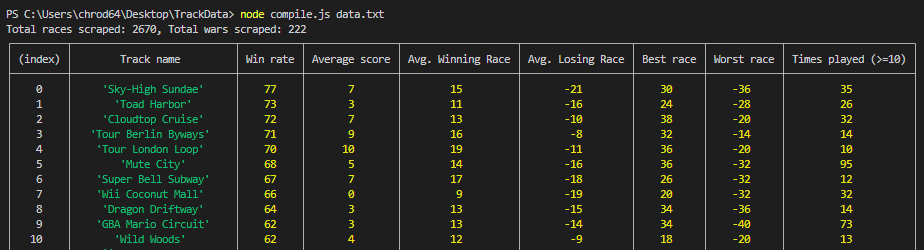
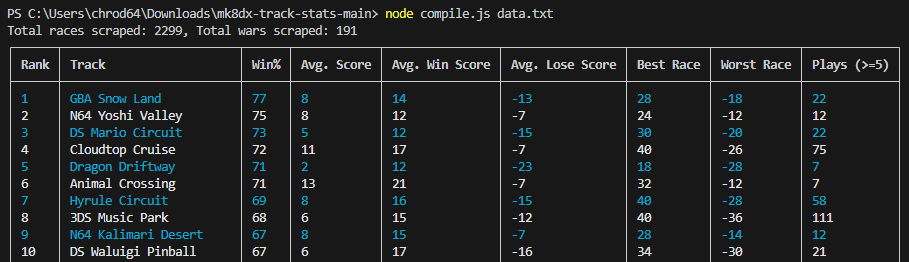
Updates
- Keep up to date with toad bot changes
- Made stats easier to read with alternating colors

diff --git a/compile.js b/compile.js
@@ -1,11 +1,12 @@
 const readLine = require("readline");
 const fs = require("fs");
-const stream = require('stream');
+const stream = require("stream");
+const { Table } = require("console-table-printer");
 
 // DiscordChatExporter search criteria: "from:Toad#7861 track"
 
-const lines = [];
 const timesPlayedLimit = 5;
+const columnAlignment = "left";
 
 // Read collected toad bot data
 function readLines({ input }) {
@@ -22,6 +23,8 @@ function readLines({ input }) {
 const input = fs.createReadStream(process.argv[2]);
 
 (async () => {
+    const lines = [];
+
     // Read the data
     for await (const line of readLines({ input })) {
         lines.push(line);
@@ -41,6 +44,7 @@ const input = fs.createReadStream(process.argv[2]);
         if (!trackData[trackName]) {
             // Create object if it does not exist
             trackData[trackName] = {
+                //spots: [], // 2D array
                 scores: [],
                 timesPlayed: 0,
                 avgScore: 0,
@@ -52,6 +56,9 @@ const input = fs.createReadStream(process.argv[2]);
             }
         }
         trackData[trackName].scores.push(difference);
+        /*if (difference > 0) {
+            trackData[trackName].spots.push(lines[i - 7].match(/\d+/g));
+        }*/
         ++totalRaces;
     }
 
@@ -79,27 +86,61 @@ const input = fs.createReadStream(process.argv[2]);
         trackObj.bestRace = isFinite(trackObj.bestRace) ? trackObj.bestRace : 0;
         trackObj.worstRace = isFinite(trackObj.worstRace) ? trackObj.worstRace : 0;
 
+        /*const spotSums = {};
+        for (const raceSpots of trackObj.spots) {
+            for (const spot of raceSpots) {
+                if (!spotSums[spot]) {
+                    spotSums[spot] = 0
+                }
+                ++spotSums[spot];
+            }
+        }
+        for (const spot of Object.keys(spotSums)) {
+            spotSums[spot] /= wRaces.length;
+        }
+        console.log(spotSums);
+        console.log(trackObj.spots);*/
+
         trackObjs.push({ name: trackName, data: trackObj });
     }
     trackObjs.sort((t1, t2) => t2.data.winRate - t1.data.winRate);
 
+    // Format columns
+    const plays = `Plays (>=${timesPlayedLimit})`;
+    const table = new Table({
+        columns: [
+            { name: "Rank", alignment: columnAlignment },
+            { name: "Track", alignment: columnAlignment },
+            { name: "Win%", alignment: columnAlignment },
+            { name: "Avg. Score", alignment: columnAlignment },
+            { name: "Avg. Win Score", alignment: columnAlignment },
+            { name: "Avg. Lose Score", alignment: columnAlignment },
+            { name: "Best Race", alignment: columnAlignment },
+            { name: "Worst Race", alignment: columnAlignment },
+            //{ name: "Best Starting Spots", alignment: columnAlignment },
+            { name: plays, alignment: columnAlignment },
+        ]
+    });
+
     // Print out the data
-    const tableData = [];
     console.log(`Total races scraped: ${totalRaces}, Total wars scraped: ${Math.floor(totalRaces / 12)}`);
-    for (const track of trackObjs) {
+    for (let i = 0, rank = 0; i < trackObjs.length; ++i) {
+        const track = trackObjs[i];
         if (track.data.timesPlayed < timesPlayedLimit)
             continue;
         let row = {
-            "Track name": track.name,
-            "Win rate": Math.round(track.data.winRate) + 0,
-            "Average score": Math.round(track.data.avgScore) + 0,
-            "Avg. Winning Race": Math.round(track.data.avgWRace),
-            "Avg. Losing Race": Math.round(track.data.avgLRace),
-            "Best race": Math.round(track.data.bestRace),
-            "Worst race": Math.round(track.data.worstRace),
+            "Rank": ++rank,
+            "Track": track.name,
+            "Win%": Math.round(track.data.winRate) + 0,
+            "Avg. Score": Math.round(track.data.avgScore) + 0,
+            "Avg. Win Score": Math.round(track.data.avgWRace),
+            "Avg. Lose Score": Math.round(track.data.avgLRace),
+            "Best Race": Math.round(track.data.bestRace),
+            "Worst Race": Math.round(track.data.worstRace),
+            //"Best Starting Spots": "uwu",
         }
-        row[`Times played (>=${timesPlayedLimit})`] = track.data.timesPlayed;
-        tableData.push(row);
+        row[plays] = track.data.timesPlayed;
+        table.addRow(row, { color: (rank % 2 == 0) ? "white" : "cyan" }); // Alternate colors 
     }
-    console.table(tableData);
+    table.printTable();
 })();
